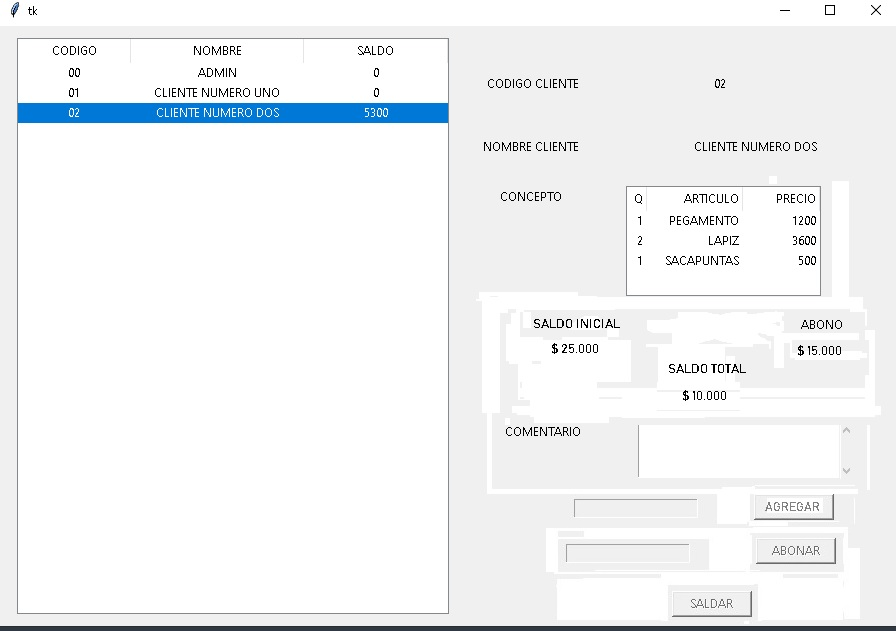
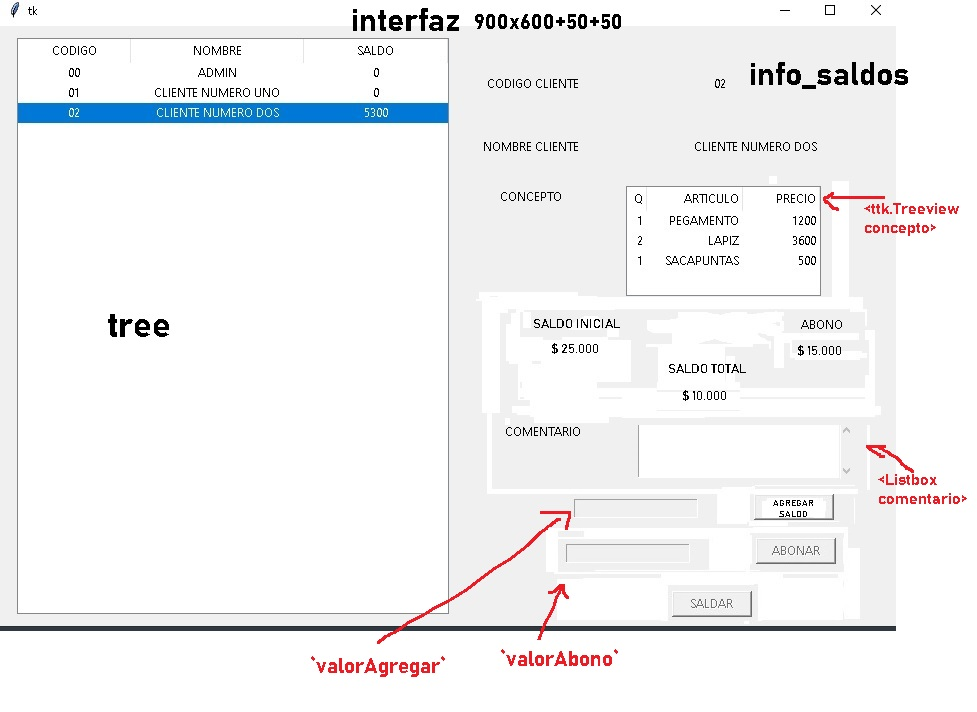
09172155 avance posicional

diff --git a/interfaces_graficas_v2.py b/interfaces_graficas_v2.py
@@ -18,6 +18,39 @@ import numpy
 
 # esta es una prueba inicial
 
+class Conversiones:
+
+	def __init__(self):
+		pass
+
+	def puntoMilConSimbolo(self, numero):
+		'''
+		Función para asignarle el punto que indica mil (si lo tiene) y ubicar el símbolo de peso a la izquierda de la cifra.
+		'''
+		numero = str(numero)
+		if len(numero)<=3:
+			return "$ {}".format(numero)
+		else:
+			transformado = list(numero)
+			puntos = len(numero) // 3 
+			residuo = len(numero) % 3
+			contador = -3
+
+			# insertamos los puntos en el lugar indicado.
+			# Si el residuo es cero quiere decir que la cantidad de numeros no es múltiplo de 3 y por ende podemos agregarlos en la posicion -3
+			# si es el punto que indica mil, sino le vamos aumentando -4 cada vez. Si el residuo es cero (ES múltiplo de 3) entonces le quitamos
+			# una unidad a la variable puntos, ya que si tenemos ejemplo 350, 349.000, y asi susesivamente, no podemos poner punto antes de las centenas, centenas de mil, ..
+			if residuo!=0:
+				for i in range(puntos):
+					transformado.insert(contador, ".")
+					contador-=4
+			else:
+				for i in range(puntos-1):
+					transformado.insert(contador, ".")
+					contador-=4
+			return "$ {}".format("".join(transformado))
+
+
 class Validaciones:
 
 	"""
@@ -107,6 +140,7 @@ class InterfazPrincipal:
 		self.raiz.resizable(False,False)
 		# creamos una instancia de la clase validaciones, para usar sus métodos.
 		self.validaciones = Validaciones()
+		self.conversiones = Conversiones()
 		self.crearWidgets()
 		self.raiz.mainloop()
 
@@ -418,29 +452,30 @@ class InterfazPrincipal:
 		def actualizarDetalle(event, cursor):
 
 			'''
-			INCORPORAMOS los detalles de la cuenta que se debe.
+			INCORPORAMOS los valores nuevos de la cuenta que se debe.
 			HABILITACION de botones y caja de texto (sólo si el cliente debe o lo que es lo mismo, el saldo sea diferente de 0). 
-			<list valores_interfaz> = ['COD_CLIENTE', 'NOMBRE_CLIENTE', 'CONCEPTO', SALDO, ABONO, "COMENTARIO"]
+			<list valor_seleccion> = ['COD_CLIENTE', 'NOMBRE_CLIENTE', 'CONCEPTO', SALDO, ABONO, "COMENTARIO"]
 			<list valor_concepto> = [(CANTIDAD "NOMBRE_ARTICULO" PRECIO_TOTAL), ...]
 			<list valor_comentario> = ("PRIMERA LINEA", "SEGUNDA LINEA", ...)
 			'''
 
-			valores_interfaz = tree.item(tree.selection())["values"]
-			# FORMATO: Dividimos en paquetes de a 3, con divisiones internas de space cada elemento de cada factura (le borramos los espacios)
-			valor_concepto = [i.split() for i in valores_interfaz[2].replace("/","~").split("~")]
+			valor_seleccion = tree.item(tree.selection())["values"]
+			
 			# Definimos una variable para el comentario, y reemplazamos caracteres especiales para un mejor tratamiento
-			valor_comentario = valores_interfaz[5].replace("\t","").replace("\n","}").split("}")
+			valor_comentario = valor_seleccion[5].replace("\t","").replace("\n","}").split("}")
 
+			# ACTUALIZAMOS VALORES PANEL DERECHO.
+			codigo["text"]=str(valor_seleccion[0]).zfill(2)
+			nombre["text"]=valor_seleccion[1]
 
-			# actualizamos los valores
-			codigo["text"]=str(valores_interfaz[0]).zfill(2)
-			nombre["text"]=valores_interfaz[1]
-
-			# Eliminamos detalles del cliente previos para evitar una remontada.
+			# ELIMINAMOS DETALLES PREVIOS: en concepto del panel derecho para evitar una remontada.
 			concepto.delete(*concepto.get_children())
 
-			# Tratamos la insercción de detalle y manejo de los botones inferiores + entrada de acuerdo a si es cero o no el saldo.
-			if valores_interfaz[3]!=0: 
+			# INSERCCIÓN DE DETALLE Y HABILITACION DE BOTONES: de acuerdo al saldo de la selección.
+			if valor_seleccion[3]!=0: 
+
+				# FORMATO¬: Dividimos en paquetes de a 3, con divisiones internas de space cada elemento de cada factura (le borramos los espacios)
+				valor_concepto = [i.split() for i in valor_seleccion[2].replace("/","~").split("~")]
 
 				btnSaldarCliente["state"]="normal"
 				btnAbonoCliente["state"]="normal"
@@ -455,17 +490,19 @@ class InterfazPrincipal:
 				entAbonoCliente["state"]="disabled"
 				btnSaldarCliente["state"]="disabled"
 
-				concepto.insert("", END, values=[0, "SALDADO", 0])
+				concepto.insert("", END, values=["-", "SALDADO", 0])
 
-			saldo["text"]=valores_interfaz[3]
-			abono["text"]=valores_interfaz[4]
+			# Hacemos uso del objeto conversiones; declarado en la construcción de la clase actual,
+			# para asignarle el símbolo de peso y los puntos que indican mil a las etiquetas que son valores.
+			saldoInicial["text"]=self.conversiones.puntoMilConSimbolo(valor_seleccion[3]) 
+			abono["text"]=self.conversiones.puntoMilConSimbolo(valor_seleccion[4])
+			saldoTotal["text"]=self.conversiones.puntoMilConSimbolo(valor_seleccion[3] - valor_seleccion[4])
 
 			# BORRAMOS y AÑADIMOS comentario correspondiente a <Listbox comentario>
 			comentario.delete(0, "end")
 			for i in valor_comentario:
+				# Agregamos de a 30 caracteres por linea
 				for k in range(0, len(i), 30):
-					# if i == "NULL":
-					# 	continue
 					comentario.insert("end", i[k:k+30])
 			
 			comentario.activate(2)
@@ -475,26 +512,25 @@ class InterfazPrincipal:
 
 			'''
 			<str tipo> = "SALDAR" || "ABONAR"
-			<list valores_interfaz> = ['COD_CLIENTE', 'NOMBRE_CLIENTE', 'CONCEPTO', SALDO, ABONO, "COMENTARIO"]
+			<list valor_seleccion> = ['COD_CLIENTE', 'NOMBRE_CLIENTE', 'CONCEPTO', SALDO, ABONO, "COMENTARIO"]
 			'''
 
-			valores_interfaz = tree.item(tree.selection())["values"]
+			valor_seleccion = tree.item(tree.selection())["values"]
 
 			if tipo == "SALDAR":
 
 				# En orden descendente para asignarle al registro saldado el valor de la última factura.
-				cursor.execute("SELECT COD_FACTURA FROM SALDOS WHERE COD_CLIENTE = (?) ORDER BY COD_FACTURA DESC",(str(valores_interfaz[0]).zfill(2),))
+				cursor.execute("SELECT COD_FACTURA FROM SALDOS WHERE COD_CLIENTE = (?) ORDER BY COD_FACTURA DESC",(str(valor_seleccion[0]).zfill(2),))
 				codigo_fact = cursor.fetchone()
 
-				cursor.execute("DELETE FROM SALDOS WHERE COD_CLIENTE = (?)", (str(valores_interfaz[0]).zfill(2),))
-				cursor.execute("INSERT INTO SALDOS(COD_CLIENTE, NOMBRE_CLIENTE, COD_FACTURA, CONCEPTO, SALDO) VALUES (?,?,?,?,?)",(str(valores_interfaz[0]).zfill(2), valores_interfaz[1], codigo_fact[0], "SALDADO", 0) )
+				cursor.execute("DELETE FROM SALDOS WHERE COD_CLIENTE = (?)", (str(valor_seleccion[0]).zfill(2),))
+				cursor.execute("INSERT INTO SALDOS(COD_CLIENTE, NOMBRE_CLIENTE, COD_FACTURA, CONCEPTO, SALDO) VALUES (?,?,?,?,?)",(str(valor_seleccion[0]).zfill(2), valor_seleccion[1], codigo_fact[0], "SALDADO", 0) )
 
-				messagebox.showinfo("PAGO EXITOSO", "Se saldó la cuenta con {} exitosamente".format(valores_interfaz[1]), parent=interfaz)
+				messagebox.showinfo("PAGO EXITOSO", "Se saldó la cuenta con {} exitosamente".format(valor_seleccion[1]), parent=interfaz)
 
-				# ACTUALIZACIÓN del cliente seleccionado tanto en <tree> como en <info_saldos>
-				tree.item(str(valores_interfaz[0]).zfill(2), values=(str(valores_interfaz[0]).zfill(2), valores_interfaz[1], "SALDADO", 0, 0, "NULL"))
+				# ACTUALIZACIÓN del cliente seleccionado tanto en <tree> (actualización manual) como en <info_saldos>
+				tree.item(str(valor_seleccion[0]).zfill(2), values=(str(valor_seleccion[0]).zfill(2), valor_seleccion[1], "SALDADO", 0, 0, "NULL"))
 				valorAbono.set("")
-				# actualizarDetalle(None)
 
 			elif tipo == "ABONAR":
 
@@ -506,7 +542,7 @@ class InterfazPrincipal:
 
 				elif int(entAbonoCliente.get())%50==0:
 
-					codigo_cliente = str(valores_interfaz[0]).zfill(2)
+					codigo_cliente = str(valor_seleccion[0]).zfill(2)
 
 					# OBTENEMOS el saldo de cada factura más sus códigos y el abono (que en todas debe ser el mismo)
 					cursor.execute("SELECT SALDO, COD_FACTURA, ABONO FROM SALDOS WHERE COD_CLIENTE = (?)",(codigo_cliente,))
@@ -530,11 +566,11 @@ class InterfazPrincipal:
 							cursor.execute("UPDATE SALDOS SET ABONO =(?) WHERE COD_CLIENTE = (?)", (abono_bd+valor_abonar, codigo_cliente))
 
 							# ACTUALIZACIÓN cliente seleccionado `tree` como en `info_det`
-							tree.item(str(valores_interfaz[0]).zfill(2), values=(str(valores_interfaz[0]).zfill(2), valores_interfaz[1], valores_interfaz[2], valores_interfaz[3], abono_bd+valor_abonar, valores_interfaz[5]))
+							tree.item(str(valor_seleccion[0]).zfill(2), values=(str(valor_seleccion[0]).zfill(2), valor_seleccion[1], valor_seleccion[2], valor_seleccion[3], abono_bd+valor_abonar, valor_seleccion[5]))
 
 					else:
 
-						messagebox.showwarning("ERROR", "No se puede abonar más del saldo pendiente.\nSaldo pendiente es de: ${}".format(saldo_total-abono_bd), parent=interfaz)
+						messagebox.showwarning("ERROR", "No se puede abonar más del saldo pendiente.\nSaldo pendiente es de: {}".format(self.conversiones.puntoMilConSimbolo(saldo_total-abono_bd)), parent=interfaz)
 						entAbonoCliente.delete(0, "end")
 						return
 				else:
@@ -557,33 +593,33 @@ class InterfazPrincipal:
 		valorAgregar = StringVar()
 
 		# EXPERIMENTAL: método para poner en primer plano la interfaz
-		interfaz.grab_set()
+		# interfaz.grab_set()
 		# interfaz.wm_attributes("-topmost", True)
 
 		info_saldos = Frame(interfaz)
 		info_saldos.place(relx=0.5, relwidth=0.48, rely=0.02, relheight=0.96)
 
 		# Creamos la estructura del lado derecho de la ventana
-		Label(info_saldos, text="CODIGO CLIENTE", width = 15, anchor="e").place(relx=0.05, rely=0.06)
-		Label(info_saldos, text="NOMBRE CLIENTE", width=15, anchor="e").place(relx=0.05, rely=0.17)
-		Label(info_saldos, text="CONCEPTO", width=15, anchor="e").place(relx=0.05, rely=.28)
-		Label(info_saldos, text="SALDO", width=15, anchor="e").place(relx=0.05, rely=.50)
-		Label(info_saldos, text="ABONO", width=15, anchor="e").place(relx=0.05, rely=.58)
-		Label(info_saldos, text="COMENTARIO", width=15, anchor="e").place(relx=0.05, rely=.65)
+		Label(info_saldos, text="CODIGO CLIENTE", width = 15, anchor="e").place(relx=0.05, rely=0.04)
+		Label(info_saldos, text="NOMBRE CLIENTE", width=15, anchor="e").place(relx=0.05, rely=0.15)
+		Label(info_saldos, text="CONCEPTO", width=15, anchor="e").place(relx=0.05, rely=.26)
+		Label(info_saldos, text="SALDO INICIAL", width=15, anchor="e").place(relx=0.05, rely=.45)
+		Label(info_saldos, text="ABONO", width=15, anchor="e").place(relx=0.5, rely=.45)
+		Label(info_saldos, text="SALDO TOTAL", width=15, anchor="e").place(relx=0.32, rely=.53)
+		Label(info_saldos, text="COMENTARIO", width=15, anchor="e").place(relx=0.05, rely=.63)
 
 		codigo = Label(info_saldos, width=15, anchor="center")
-		codigo.place(relx=0.50, rely=0.06)
+		codigo.place(relx=0.50, rely=0.04)
 
 		nombre = Label(info_saldos, width=25, anchor="center")
-		nombre.place(relx=0.5, rely=0.17)
+		nombre.place(relx=0.5, rely=0.15)
 
-		# Arbol ubicado en el panel derecho, propiedad `CONCEPTO`
+		# Arbol ubicado en el panel derecho.
 		concepto = ttk.Treeview(info_saldos, columns=("CANTIDAD", "ARTICULO", "PRECIO"), selectmode=NONE)
-		concepto.place(relx=0.45, rely=.28, relwidth=0.45, relheight=0.19)
-
+		concepto.place(relx=0.45, rely=.26, relwidth=0.45, relheight=0.17)
 
 		concepto.column("#0", width=0, stretch=NO)
-		concepto.column("CANTIDAD", width=20, anchor = "e", stretch=NO)	# No ajustamos por defecto ésta columna
+		concepto.column("CANTIDAD", width=20, anchor = "e", stretch=NO)
 		concepto.column("ARTICULO",width=50, anchor = "e")
 		concepto.column("PRECIO", width=30, anchor = "e")
 
@@ -591,21 +627,24 @@ class InterfazPrincipal:
 		concepto.heading("ARTICULO", text="ARTICULO", anchor = "e")
 		concepto.heading("PRECIO", text="PRECIO", anchor = "e")
 
-		saldo = Label(info_saldos, width=15, anchor="center")
-		saldo.place(relx=0.5, rely=.50)
+		saldoInicial = Label(info_saldos, width=15, anchor="center")
+		saldoInicial.place(relx=0.08, rely=.49)
 
 		abono = Label(info_saldos, width=15, anchor="center")
-		abono.place(relx=0.5, rely=.58)
+		abono.place(relx=0.58, rely=.49)
+
+		saldoTotal = Label(info_saldos, width =15, anchor ="center")
+		saldoTotal.place(relx=0.36, rely=0.57)
 
 		comentario = Listbox(info_saldos)
 		comentario.place(relx=0.43, rely=0.65, relwidth=0.47, relheight=0.10)
 
-		# Creacion de barra desplazamiento
+		# BARRA DESPLAZAMIENTO de comentario.
 		scrollbar_y = Scrollbar(info_saldos, orient="vertical", command=comentario.yview)
 		comentario.config(yscrollcommand=scrollbar_y.set)
 		scrollbar_y.place(relx=.9, rely=.65, relwidth=0.03, relheight=0.1)
 
-		# CREACION botones y entrada para abono 
+		# BOTONES
 		btnSaldarCliente = Button(info_saldos, text="SALDAR", width=10, command = lambda : abonarSaldo("SALDAR"))
 		btnSaldarCliente.place(relx=0.45, rely=0.8)
 
@@ -615,12 +654,13 @@ class InterfazPrincipal:
 		entAbonoCliente = Entry(info_saldos, width=20, textvariable = valorAbono , validate = "key", validatecommand= (info_saldos.register(self.validaciones.soloNumeros),"%P"))
 		entAbonoCliente.place(relx=0.34, rely=0.9)
 
-		# CREACION estructura para presentar en un panel izquierdo la lista de morosos o que han sido
+		# PANEL IZQUIERDO: Información general de morosos o que han tenido cuenta.
 		tree = ttk.Treeview(interfaz, columns=('COD_CLIENTE', 'NOMBRE_CLIENTE', 'CONCEPTO', "SALDO", "ABONO", "COMENTARIO"), selectmode=BROWSE)
+		tree.place(relx=0.02, relwidth=0.48, rely=0.02, relheight=0.96)
 
 		tree.tag_bind("clienteSeleccionado", "<<TreeviewSelect>>", lambda event: actualizarDetalle(event))
 
-		# Configuración de columnas (ocultamos concepto y comentario)
+		# CONFIGURACIÓN COLUMNAS.
 		tree.column('#0', width=0, anchor=CENTER, stretch=NO) # Oculta
 		tree.column('COD_CLIENTE', anchor=CENTER, width=50)
 		tree.column('NOMBRE_CLIENTE', anchor=CENTER, width=110)
@@ -629,24 +669,24 @@ class InterfazPrincipal:
 		tree.column('ABONO', anchor=CENTER, width=0, stretch=NO) # Oculta
 		tree.column("COMENTARIO", anchor=CENTER, width = 0, stretch=NO) # Oculta
 
-		# Configuración de encabezados
+		# CONFIGURACIÓN ENCABEZADOS.
 		tree.heading('COD_CLIENTE', text='CODIGO', anchor=CENTER)
 		tree.heading('NOMBRE_CLIENTE', text='NOMBRE', anchor=CENTER)
 		tree.heading('SALDO', text='SALDO', anchor=CENTER)
 
-		# Insercción de datos
+
+		# RESCATE E INSERCCIÓN DE DATOS.
+
 		datos = self.rescatarSaldos(cursor)
-
 		for i in range(len(datos)):
-
+			# iid es CÓDIGO DEL CLIENTE
 			tree.insert('', 'end', iid= datos.iloc[i,0], values=datos.iloc[i, :].tolist(), tags=("clienteSeleccionado",))
 
-		# Empaquetar el Treeview y el frame en la ventana de saldos.
-		tree.place(relx=0.02, relwidth=0.48, rely=0.02, relheight=0.96)
 
-		# Seleccionamos automaticamente el cliente ADMIN
+		# SELECCIÓN AUTOMÁTICA.
 		tree.selection_set("00")
 
+		# ACTUALIZACIÓN PANEL DERECHO:
 		# Pasamos como argumento `None` ya que la funcion nos pide un parámetro posicional (sería self dentro del módulo: `conexiones.py`)
 		actualizarDetalle(None)
 
@@ -778,6 +818,7 @@ class InterfazPrincipal:
 					self.cantidadListaCompra.config(text=len(self.listaCompra))
 
 			else:
+
 				messagebox.showwarning(title="PROBLEMA", message= f"No hay {articulo.loc['NOMBRE']} en stock.")
 
 

diff --git a/pruebas.py b/pruebas.py
@@ -114,6 +114,31 @@ def tkinterListbox():
 	scroll.pack(side=tkinter.RIGHT, fill=tkinter.Y)
 
 	raiz.mainloop()
+	
+def puntoMilConSimbolo(numero):
+		'''
+		Función para asignarle el punto que indica mil (si lo tiene) y ubicar el símbolo de peso a la izquierda de la cifra.
+		'''
+		if len(numero)<=3:
+			return "$ {}".format(numero)
+		else:
+			transformado = list(numero)
+			puntos = len(numero) // 3 
+			residuo = len(numero) % 3
+			contador = -3
+
+			# insertamos los puntos en el lugar indicado.
+			# Si el residuo es cero quiere decir que la cantidad de numeros no es múltiplo de 3 y por ende podemos agregarlos en la posicion -3
+			# si es el punto que indica mil, sino le vamos aumentando -4 cada vez. Si el residuo es cero (ES múltiplo de 3) entonces le quitamos
+			# una unidad a la variable puntos, ya que si tenemos ejemplo 350, 349.000, y asi susesivamente, no podemos poner punto antes de las centenas, centenas de mil, ..
+			if residuo!=0:
+				for i in range(puntos):
+					transformado.insert(contador, ".")
+					contador-=4
+			else:
+				for i in range(puntos-1):
+					transformado.insert(contador, ".")
+					contador-=4
+			return "$ {}".format("".join(transformado))
 
 
-tkinterListbox()
